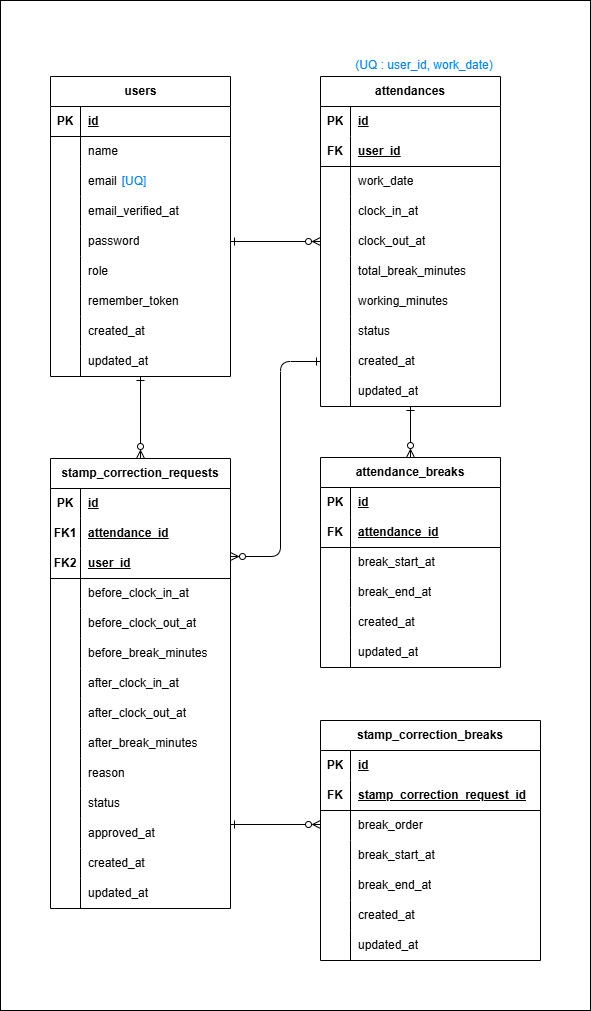
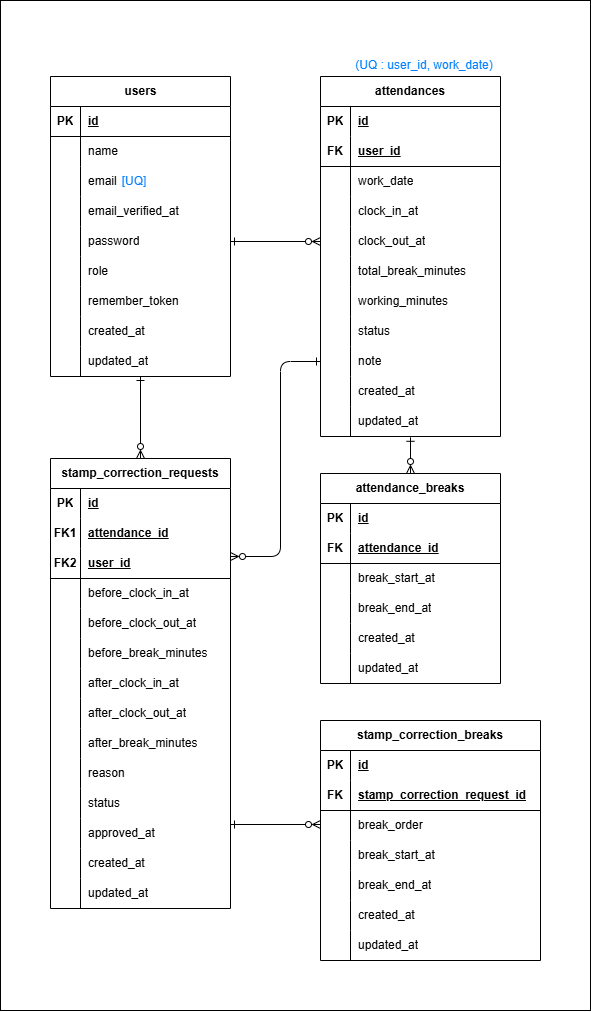
docs: ER図のattendancesテーブルにnoteカラムを追加＆README修正

diff --git a/README.md b/README.md
@@ -114,17 +114,18 @@ docker compose exec php php artisan db:seed
 
 | メールアドレス        | パスワード     |
 |------------------------|----------------|
-| admin@example.com      | password123    |
+| admin@coachtech.com      | password123    |
 
 ### ▼ 一般ユーザー（5名）
 
 | 名前       | メールアドレス         | パスワード     |
 |------------|--------------------------|----------------|
-| 佐藤 花子  | user1@example.com        | password123    |
-| 鈴木 次郎  | user2@example.com        | password123    |
-| 高橋 美咲  | user3@example.com        | password123    |
-| 田中 大輝  | user4@example.com        | password123    |
-| 山本 莉子  | user5@example.com        | password123    |
+| 西 伶奈  | reina.n@coachtech.com        | password123    |
+| 山田 太郎  | taro.y@coachtech.com        | password123    |
+| 増田 一世  | issei.m@coachtech.com        | password123    |
+| 山本 敬吉  | keikichi.y@coachtech.com        | password123    |
+| 秋田 朋美  | tomomi.a@coachtech.com        | password123    |
+| 中西 教夫  | norio.n@coachtech.com        | password123    |
 
 ## 6. 画面一覧
 
